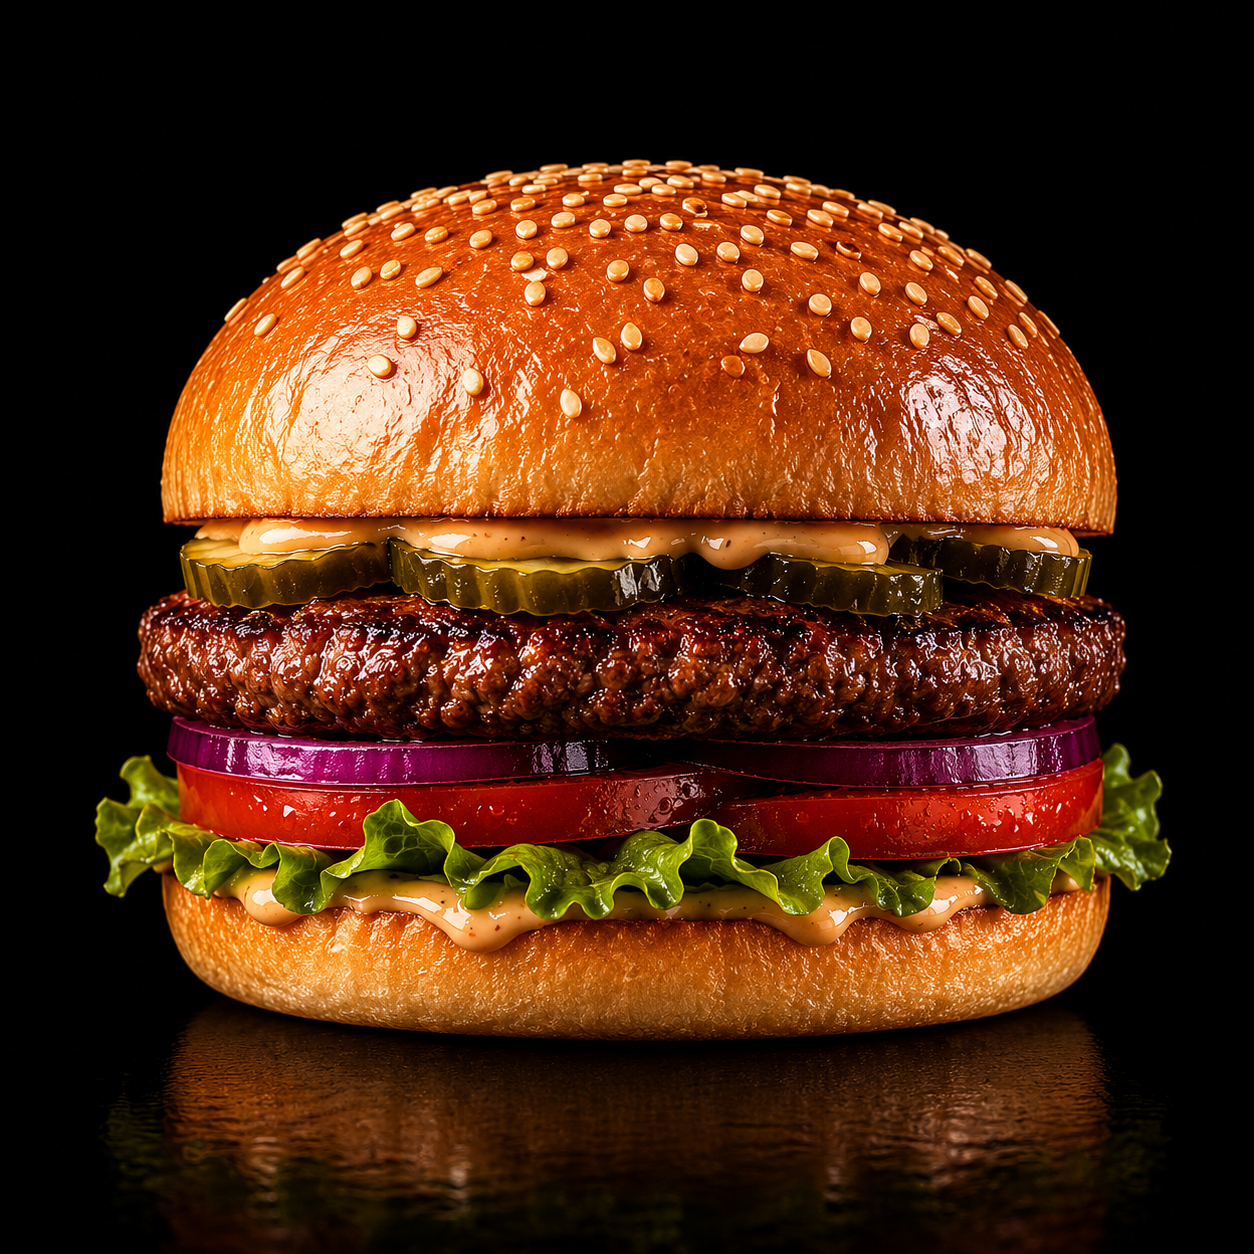
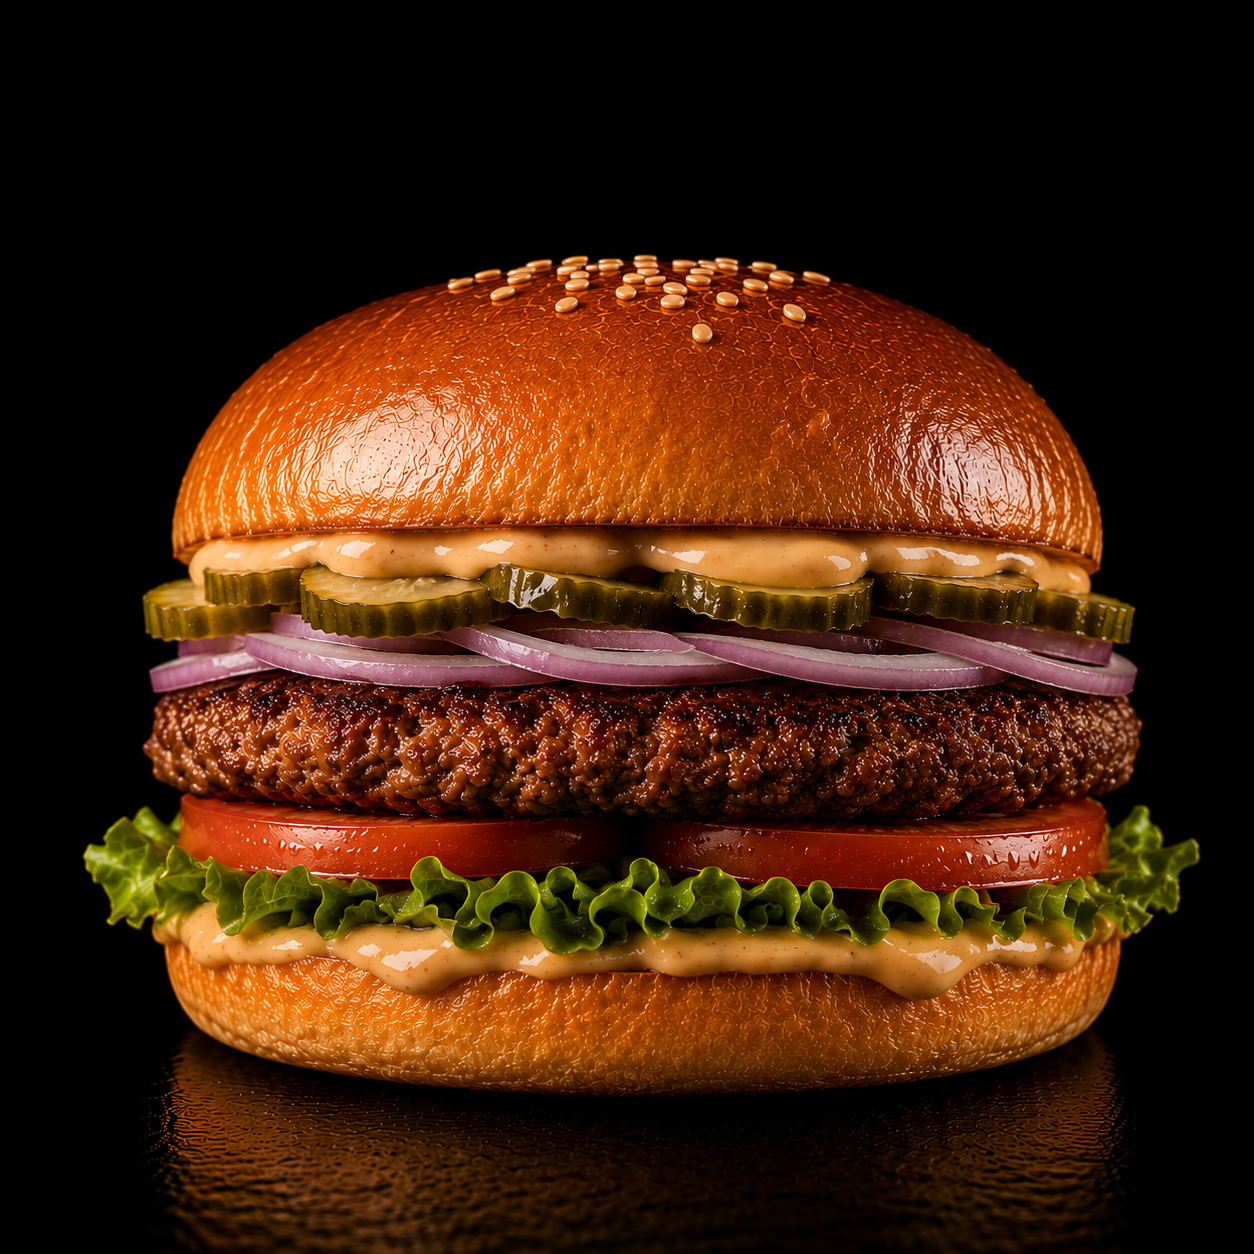
Update classic and cheeseburger menu images.
Commit refreshed burger artwork and bust image cache for immediate rollout.

diff --git a/food/app.js b/food/app.js
@@ -346,7 +346,7 @@ const MENU_ITEMS = [
     price: null,
     category: "burgers",
     badge: "hit",
-    image: IMG("burger-classic.png"),
+    image: IMG("burger-classic.png?v=20250618-01"),
   },
   {
     id: "cheeseburger",
@@ -356,7 +356,7 @@ const MENU_ITEMS = [
     price: null,
     category: "burgers",
     badge: "hit",
-    image: IMG("CHEESEBURGER.png"),
+    image: IMG("CHEESEBURGER.png?v=20250618-01"),
   },
   {
     id: "signature-burger",
